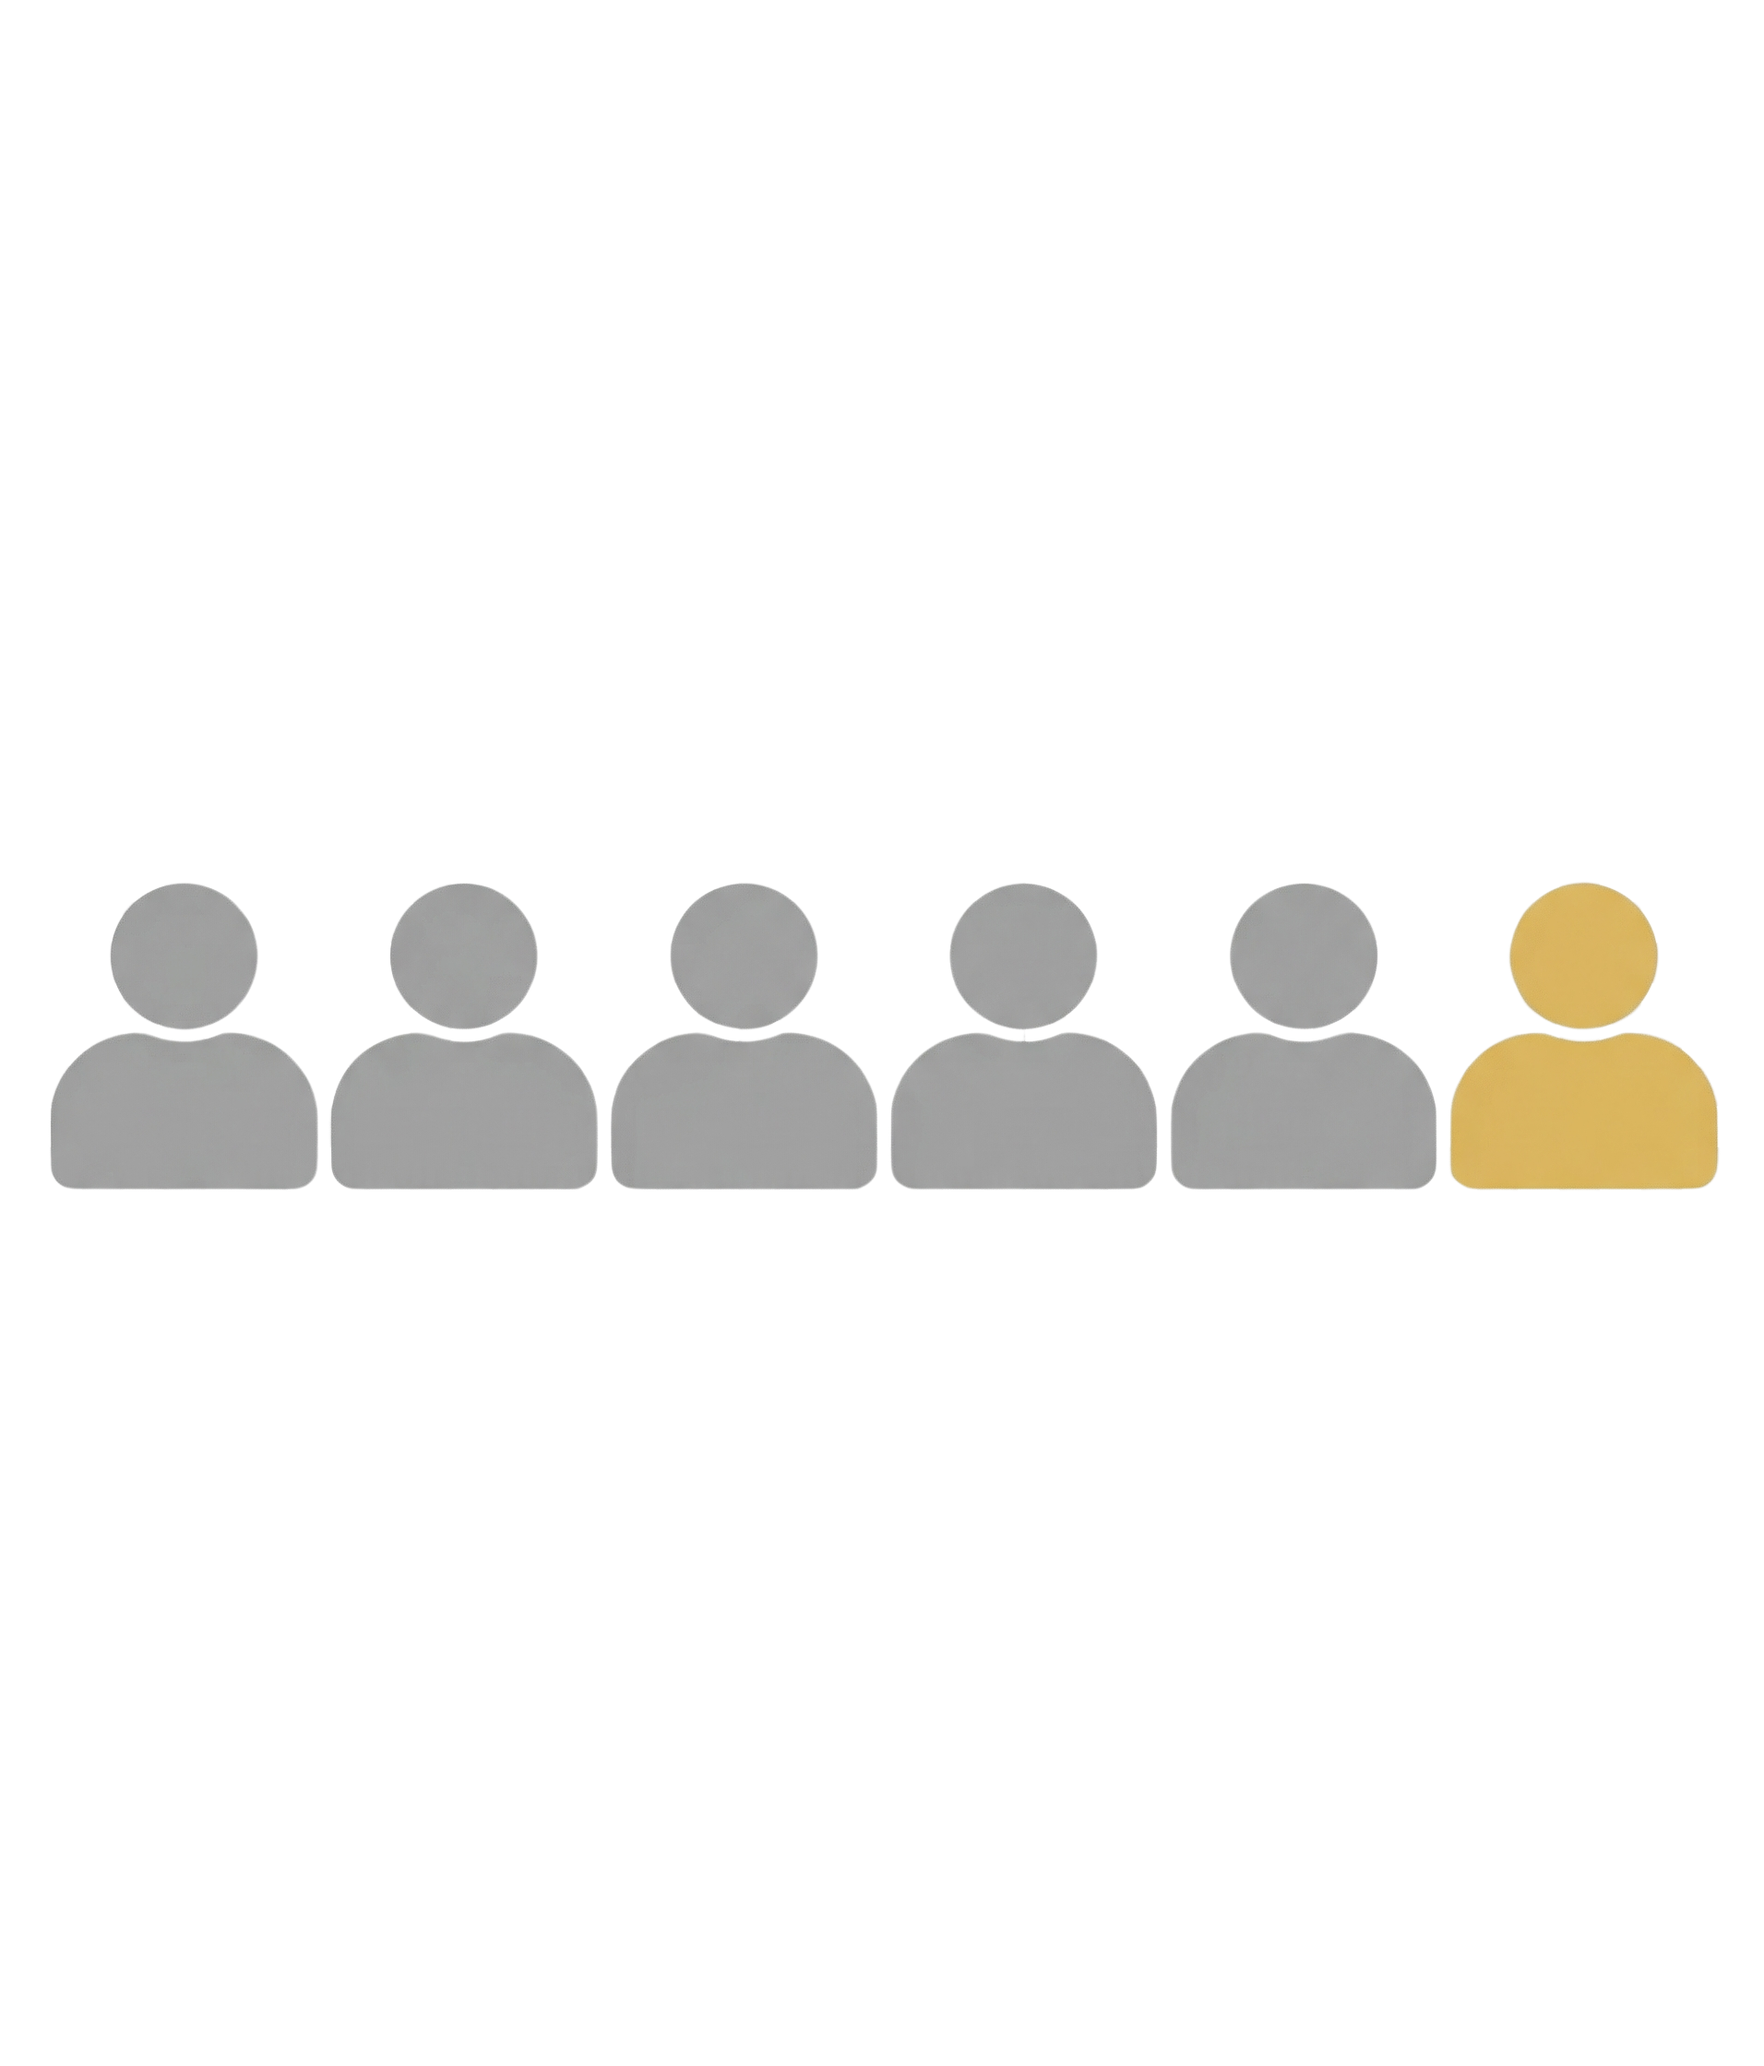
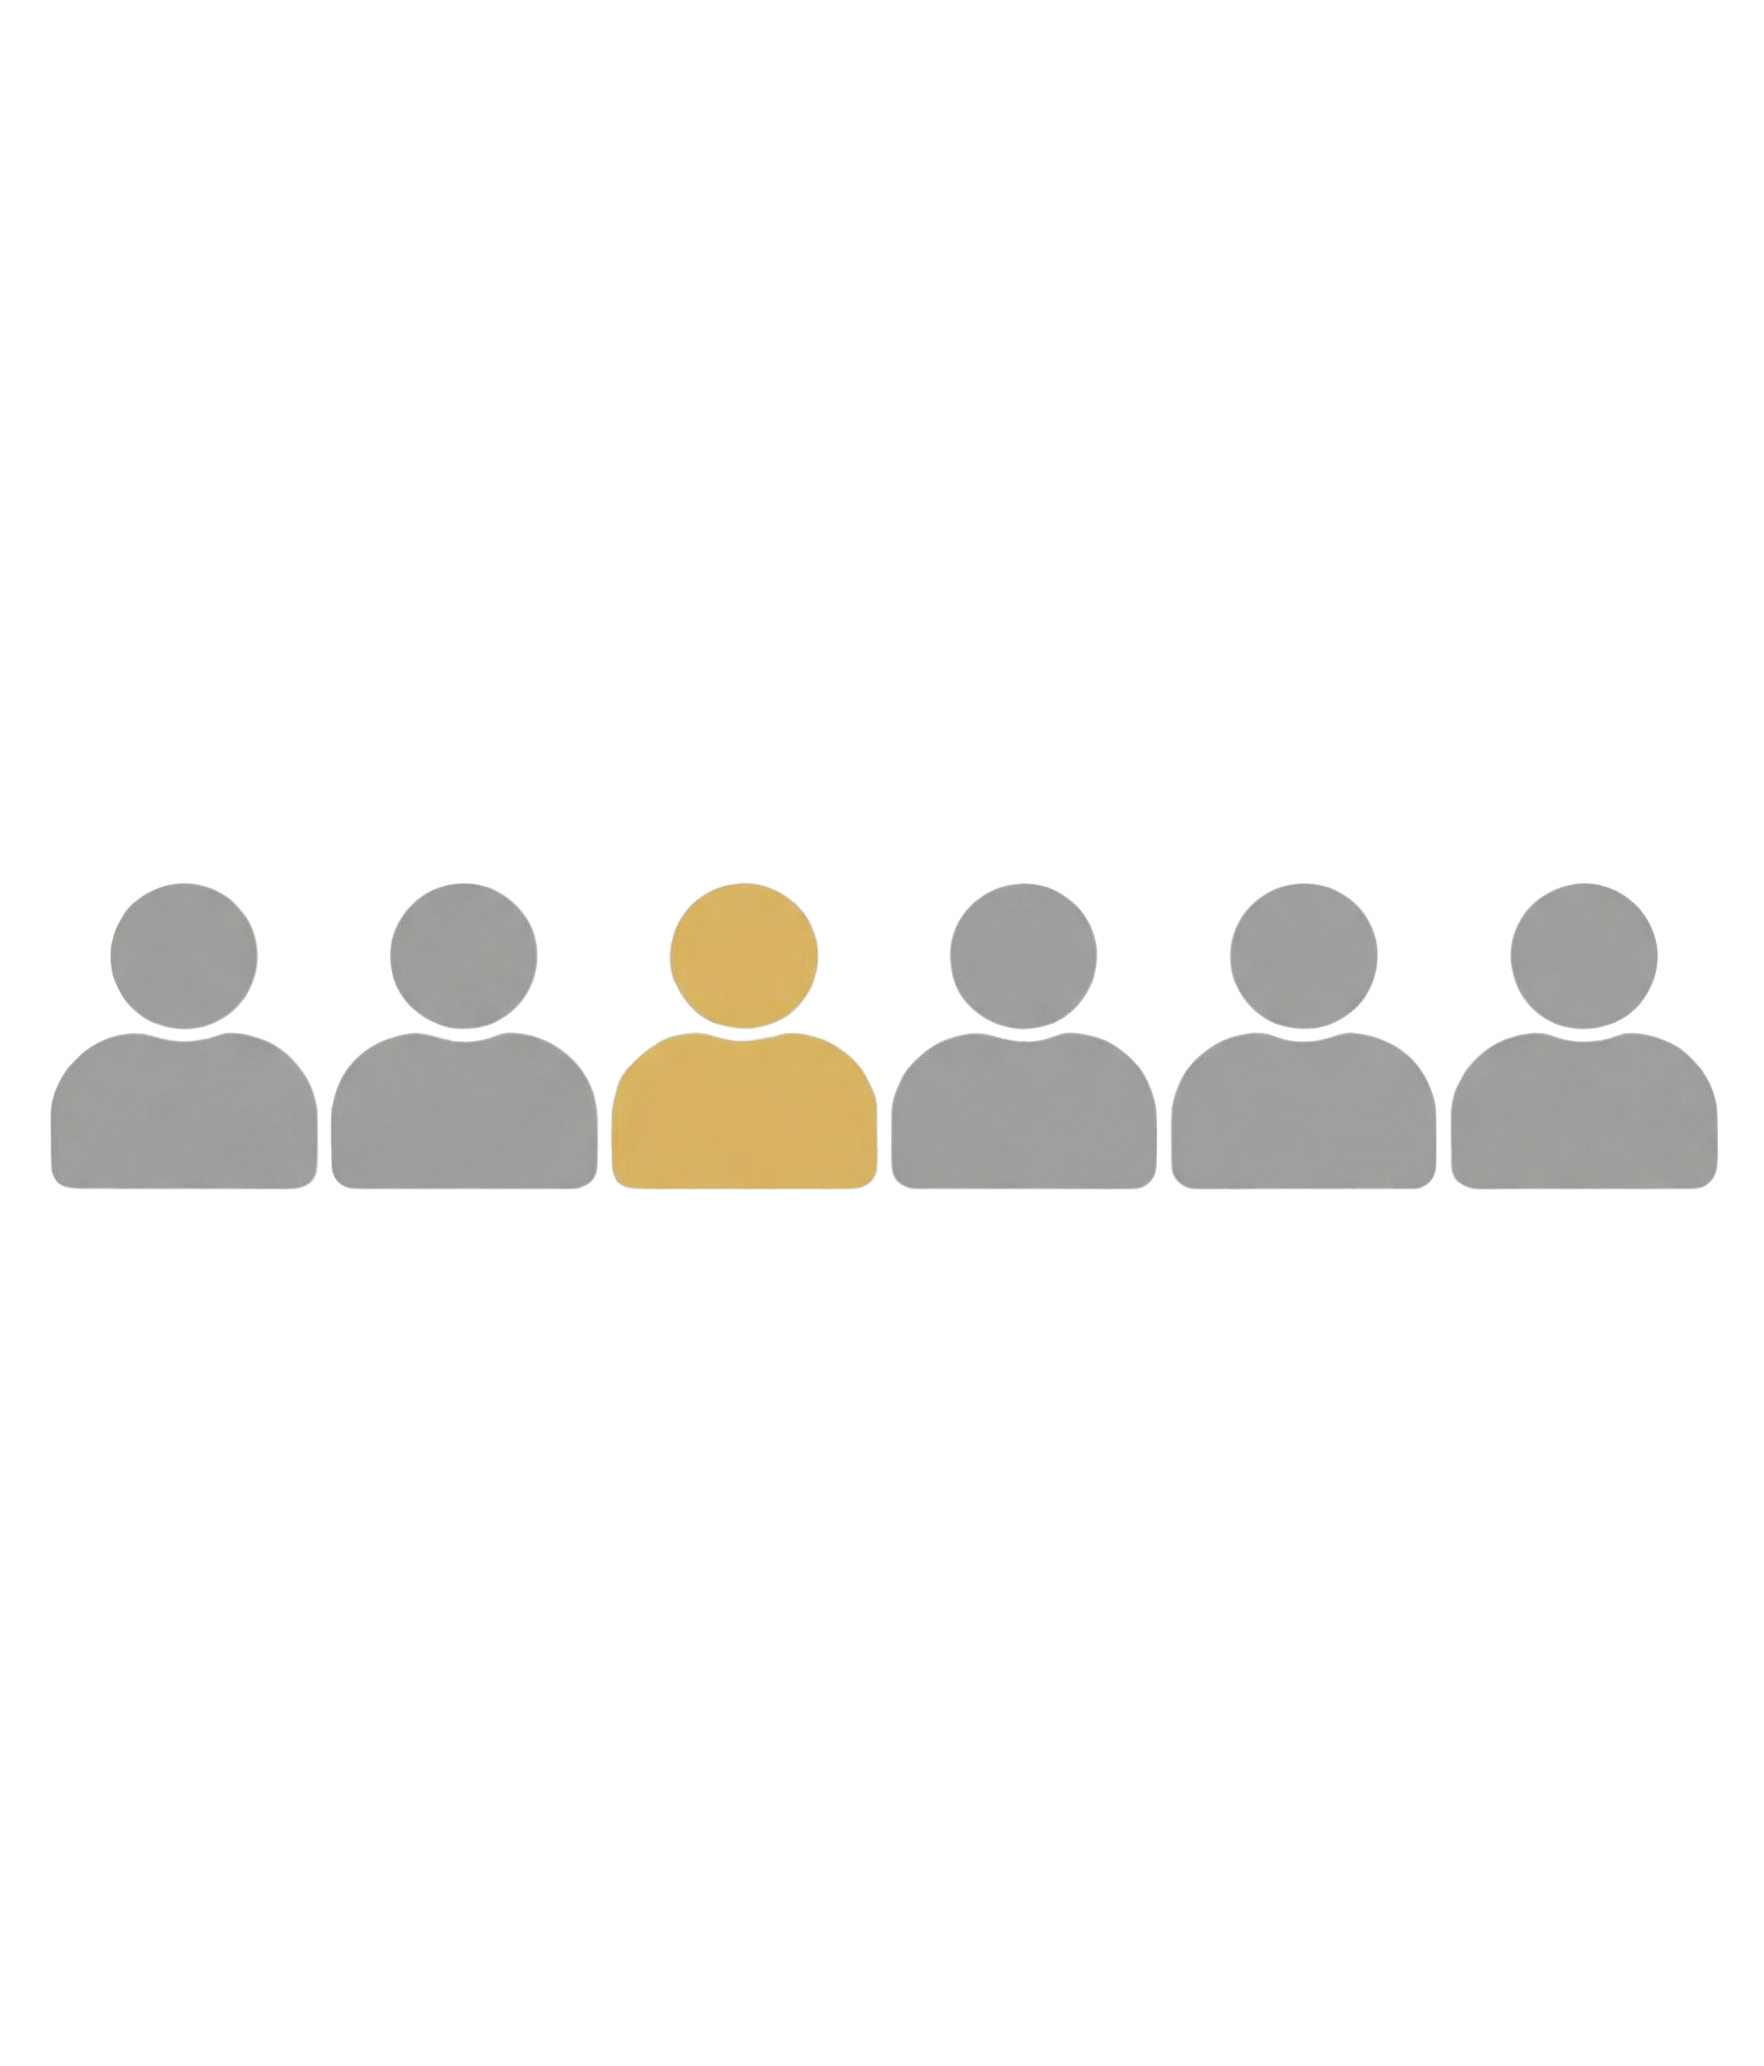
fix

Changed region(s): [[0.8023, 0.4062, 0.9874, 0.5938], [0.3394, 0.4062, 0.5246, 0.5938]]

diff --git a/mazen.html b/mazen.html
@@ -378,72 +378,76 @@
   @media (max-width: 1024px) {
     *, *::before, *::after { box-sizing: border-box; }
     .presentation-inner { min-width: 100%; width: 100%; overflow-x: hidden; }
-    .slide { width: 100%; height: auto; min-height: 100vh; padding: 100px 20px 100px; align-items: center; justify-content: center; text-align: center; margin-bottom: 0; border-bottom: 1px solid rgba(201,151,42,0.2); }
+    .slide { width: 100%; height: auto !important; min-height: 100vh; padding: 100px 15px 120px !important; align-items: center; justify-content: center; text-align: center; margin-bottom: 0; border-bottom: 2px solid rgba(201,151,42,0.3); }
     
-    .gold-line-top { left: 20px; right: 20px; top: 20px; }
-    .gold-line-bottom { left: 20px; right: 20px; bottom: 45px; }
+    .gold-line-top { left: 15px; right: 15px; top: 15px; }
+    .gold-line-bottom { left: 15px; right: 15px; bottom: 35px; }
     
     .content { padding: 0 10px; text-align: center; }
     .content.left { text-align: center; display: flex; flex-direction: column; align-items: center; }
     
     /* Typography Scaling */
-    .headline-xl { font-size: 36px !important; line-height: 1.2 !important; }
-    .headline-lg { font-size: 28px !important; line-height: 1.2 !important; }
-    .headline-md { font-size: 24px !important; }
-    .body-text, .crimson-banner p, .versus-item { font-size: 18px !important; text-align: center !important; }
-    .pain-text, .tactic-item { font-size: 18px !important; text-align: left !important; }
-    .quote-text { font-size: 22px !important; }
-    .pillar-body { font-size: 16px !important; }
-    .sub-decree { font-size: 18px !important; }
+    .headline-xl { font-size: 32px !important; line-height: 1.2 !important; }
+    .headline-lg { font-size: 26px !important; line-height: 1.2 !important; }
+    .headline-md { font-size: 22px !important; }
+    .body-text, .crimson-banner p, .versus-item { font-size: 16px !important; text-align: center !important; line-height: 1.4 !important; }
+    .pain-text, .tactic-item { font-size: 15px !important; text-align: left !important; line-height: 1.3 !important; }
+    .quote-text { font-size: 20px !important; }
+    .pillar-body { font-size: 15px !important; }
+    .sub-decree { font-size: 16px !important; }
+    .overline { font-size: 12px !important; margin-bottom: 8px !important; }
     .content > div[style*="font-size:22px"], 
     .content > div[style*="font-size:24px"], 
-    .content > div[style*="font-size:26px"] { font-size: 18px !important; }
-    .content > div[style*="font-size:62px"] { font-size: 36px !important; line-height: 1.1 !important; }
-    .content > div[style*="font-size:54px"] { font-size: 32px !important; line-height: 1.1 !important; }
-    .content > div[style*="font-size:42px"] { font-size: 28px !important; line-height: 1.2 !important; }
+    .content > div[style*="font-size:26px"] { font-size: 16px !important; line-height: 1.3 !important; margin-top: 5px !important; }
+    .content > div[style*="font-size:62px"] { font-size: 32px !important; line-height: 1.1 !important; }
+    .content > div[style*="font-size:54px"] { font-size: 28px !important; line-height: 1.1 !important; }
+    .content > div[style*="font-size:42px"] { font-size: 26px !important; line-height: 1.2 !important; }
     svg { max-width: 100%; }
     
     /* Structural adjustments */
-    .pillar-slide-layout { grid-template-columns: 1fr; display: flex; flex-direction: column; }
-    .pillar-left { padding: 20px; text-align: center; align-items: center; }
-    .pillar-right { padding: 30px 20px; border-left: none; border-top: 1px solid rgba(201,151,42,0.15); background: transparent; }
+    .pillar-slide-layout { grid-template-columns: 1fr; display: flex; flex-direction: column; gap: 5px; }
+    .pillar-left { padding: 10px; text-align: center; align-items: center; }
+    .pillar-right { padding: 15px; border-left: none; border-top: 1px solid rgba(201,151,42,0.15); background: rgba(0,0,0,0.3); border-radius: 8px; margin-top: 5px; }
     .pillar-right::before { display: none; }
-    .pillar-num-bg { font-size: 120px; opacity: 0.05; bottom: 50%; right: 50%; transform: translate(50%, 50%); }
-    .tactic-item { flex-direction: row; align-items: flex-start; text-align: left; }
-    .tactic-arrow { transform: none; margin-top: 5px; }
+    .pillar-num-bg { font-size: 80px; opacity: 0.05; bottom: 50%; right: 50%; transform: translate(50%, 50%); }
+    .tactic-item { flex-direction: row; align-items: flex-start; text-align: left; padding: 6px 0; }
+    .tactic-arrow { transform: none; margin-top: 3px; font-size: 12px; }
+    .pillar-impact { margin-top: 10px; padding-top: 10px; }
+    .pillar-impact-label { font-size: 10px; margin-bottom: 4px; }
+    .pillar-impact-text { font-size: 14px; line-height: 1.3; }
     
-    .versus-row { grid-template-columns: 1fr; gap: 20px; margin-top: 20px; align-items: center; }
-    .versus-divider { transform: rotate(90deg); padding: 10px; }
+    .versus-row { grid-template-columns: 1fr; gap: 15px; margin-top: 15px; align-items: center; }
+    .versus-divider { transform: rotate(90deg); padding: 5px; }
     .versus-item { text-align: center; }
     
-    .pillars-row { grid-template-columns: 1fr; gap: 15px; }
+    .pillars-row { grid-template-columns: 1fr; gap: 10px; }
     
     /* Elements specific */
-    img[alt="The Count"] { position: relative !important; right: auto !important; bottom: auto !important; margin-top: 30px; max-width: 100% !important; max-height: 200px !important; }
+    img[alt="The Count"] { position: relative !important; right: auto !important; bottom: auto !important; margin-top: 20px; max-width: 100% !important; max-height: 180px !important; }
     .cv-stack { display: none; }
-    .bg-letters { font-size: 100px !important; right: 50% !important; transform: translateX(50%) translateY(-50%) !important; top: 50% !important; bottom: auto !important; opacity: 0.05; }
+    .bg-letters { font-size: 80px !important; right: 50% !important; transform: translateX(50%) translateY(-50%) !important; top: 50% !important; bottom: auto !important; opacity: 0.05; }
     
     /* Pain list */
-    .pain-list { align-items: flex-start; text-align: left; }
-    .pain-item { flex-direction: row; align-items: flex-start; text-align: left; gap: 10px; }
+    .pain-list { align-items: flex-start; text-align: left; gap: 8px; }
+    .pain-item { flex-direction: row; align-items: flex-start; text-align: left; gap: 8px; }
     .pain-dash { display: block; }
-    .crimson-banner { padding: 16px; margin-top: 20px; border-left: none; border-top: 4px solid var(--crimson); }
+    .crimson-banner { padding: 12px; margin-top: 15px; border-left: none; border-top: 4px solid var(--crimson); }
     
     /* CTA */
-    .cta-buttons { flex-direction: column; width: 100%; gap: 10px; align-items: center; }
-    .btn-primary, .btn-secondary { width: 100%; max-width: 300px; text-align: center; padding: 16px 20px; box-sizing: border-box; }
+    .cta-buttons { flex-direction: column; width: 100%; gap: 10px; align-items: center; margin-top: 20px; }
+    .btn-primary, .btn-secondary { width: 100%; max-width: 280px; text-align: center; padding: 14px 20px; box-sizing: border-box; }
     
     /* Footer elements of slide */
-    .slide-num { right: auto; left: 50%; bottom: 15px; transform: translateX(-50%); font-size: 13px; letter-spacing: 0.15em; width: 100%; text-align: center; }
+    .slide-num { right: auto; left: 50%; bottom: 8px; transform: translateX(-50%); font-size: 11px; letter-spacing: 0.15em; width: 100%; text-align: center; opacity: 0.8; }
     .slide-logo { display: none; } /* Hide duplicate logo on mobile */
-    .wax-seal { position: relative; right: auto; bottom: auto; margin-top: 30px; width: 60px; height: 60px; }
-    .wax-seal span { font-size: 18px; }
+    .wax-seal { position: relative; right: auto; bottom: auto; margin-top: 20px; width: 50px; height: 50px; }
+    .wax-seal span { font-size: 16px; }
     
     /* Center decorative lines */
-    .slide > div[style*="left:200px; right:200px"] { left: 40px !important; right: 40px !important; }
+    .slide > div[style*="left:200px; right:200px"] { left: 30px !important; right: 30px !important; }
     
-    .special-logo-header img { height: 70px; }
-    .special-logo-header { padding: 10px 0; background: rgba(13, 11, 8, 0.95); pointer-events: auto; }
+    .special-logo-header img { height: 60px; }
+    .special-logo-header { padding: 5px 0; background: rgba(13, 11, 8, 0.95); pointer-events: auto; }
   }
 </style>
 </head>
@@ -527,10 +531,10 @@
   <div class="corner-ornament bl"></div><div class="corner-ornament br"></div>
   <div class="gold-line-top"></div><div class="gold-line-bottom"></div>
 
-  <div class="cv-stack" style="opacity:0.18;">
-    <div style="width:210px; height:280px; background:var(--parchment); transform:rotate(3deg);"></div>
-    <div style="position:absolute; right:90px; top:160px; width:210px; height:280px; background:var(--parchment); transform:rotate(-2deg); opacity:0.6;"></div>
-    <div style="position:absolute; right:80px; top:170px; width:210px; height:280px; background:var(--parchment); transform:rotate(1deg); opacity:0.4;"></div>
+  <div class="cv-stack" style="right:140px; z-index:10;">
+    <div style="position:absolute; right:20px; top:20px; width:260px; height:360px; background:var(--parchment); transform:rotate(-4deg); opacity:0.15; z-index:-1; box-shadow: 0 0 20px rgba(0,0,0,0.8);"></div>
+    <div style="position:absolute; right:40px; top:40px; width:260px; height:360px; background:var(--parchment); transform:rotate(2deg); opacity:0.08; z-index:-2;"></div>
+    <img src="images/cv.jpeg" alt="CV" style="width:280px; height:auto; transform:rotate(4deg); border:1px solid rgba(201,151,42,0.3); box-shadow:0 15px 40px rgba(0,0,0,0.9); opacity:0.85; filter:brightness(0.9) contrast(1.1); border-radius:3px;">
   </div>
 
   <div class="content left" style="max-width:780px;">
@@ -754,7 +758,7 @@
 </div>
 
 <!-- ═══════════ SLIDE 9 — PILLAR IV: POSITIONING (EXPANDED) ═══════════ -->
-<div class="slide bg-marble" id="s9" style="padding:0;">
+<div class="slide bg-crimson" id="s9" style="padding:0;">
   <div class="marble-overlay"></div>
   <div class="corner-ornament tl"></div><div class="corner-ornament tr"></div>
   <div class="corner-ornament bl"></div><div class="corner-ornament br"></div>
